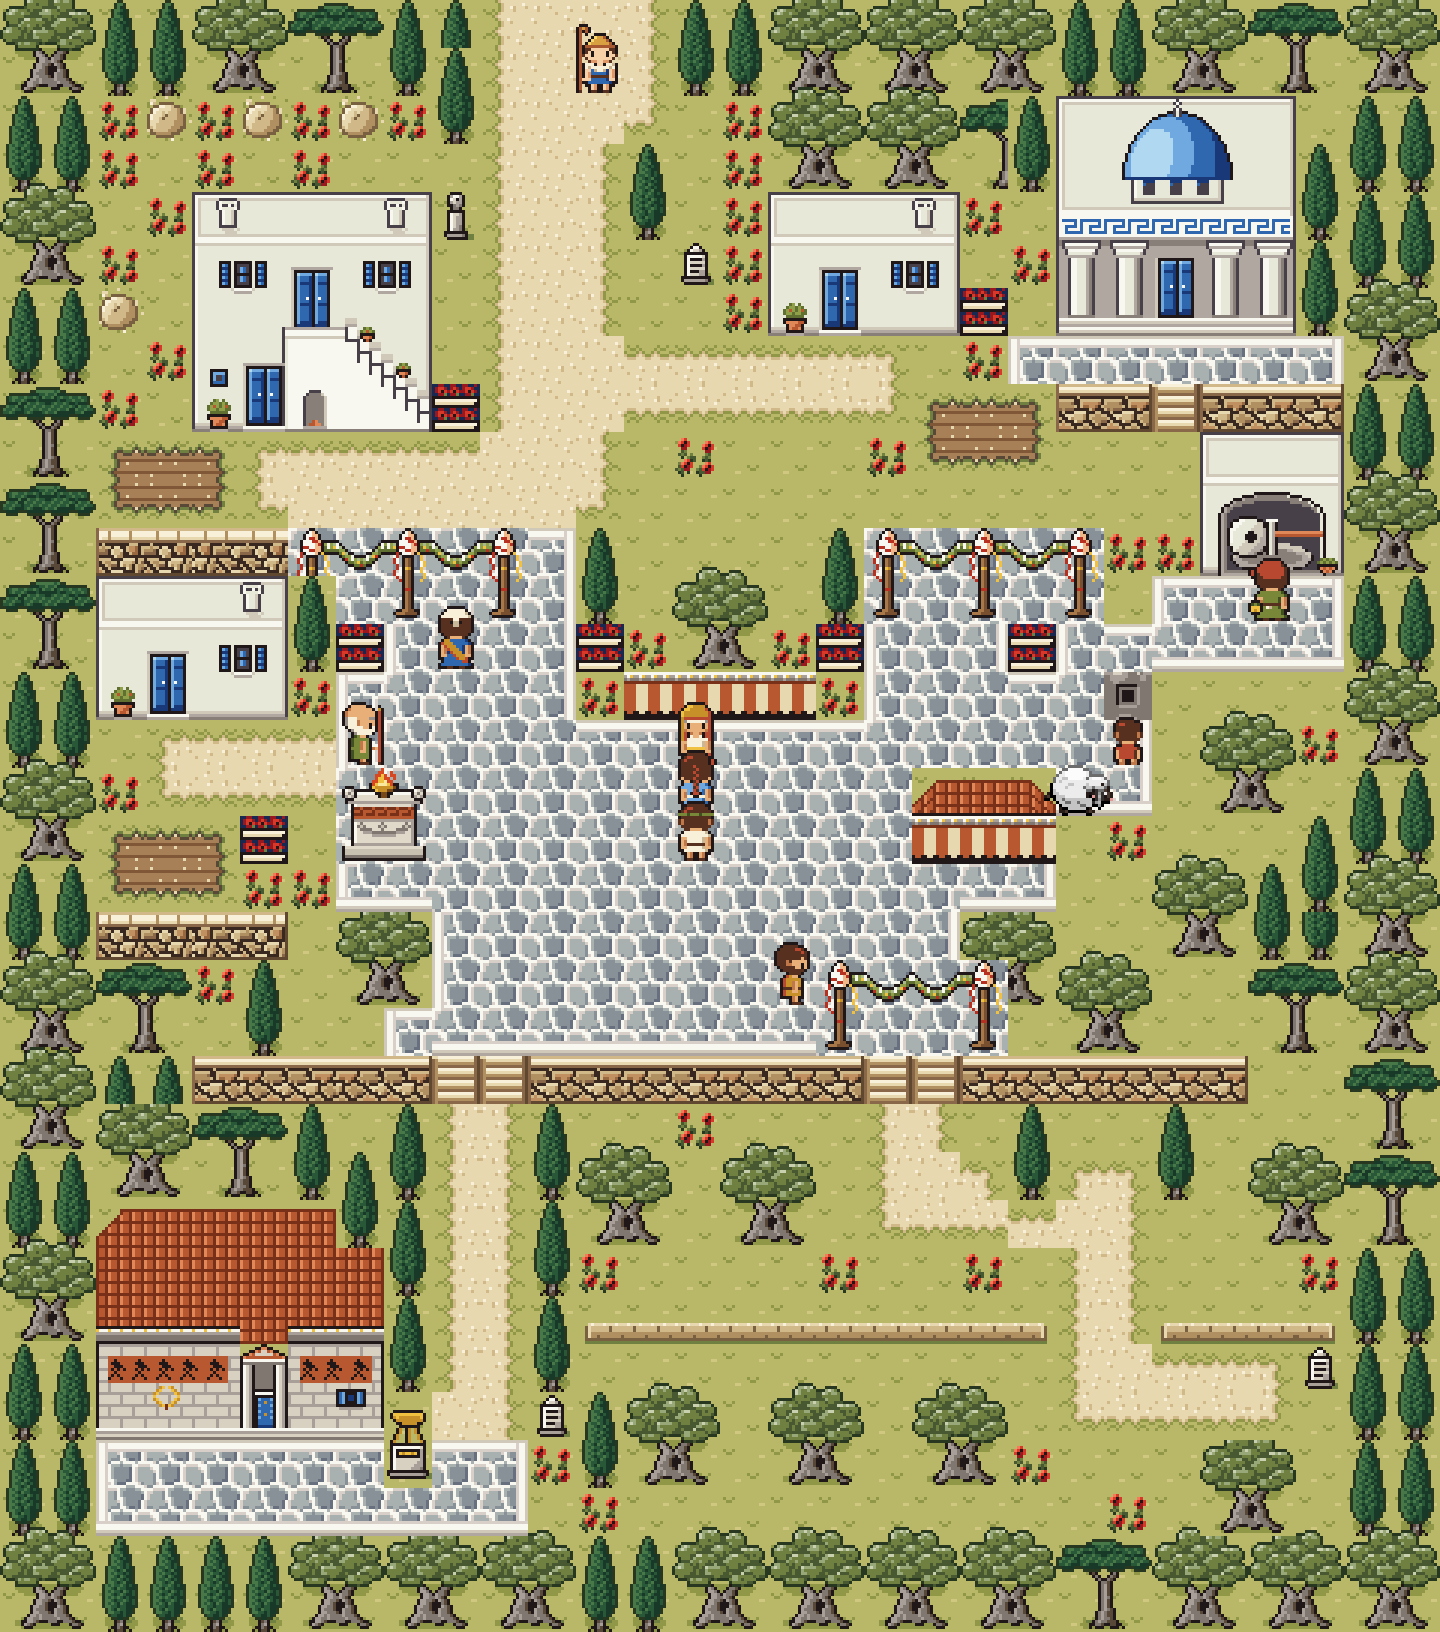
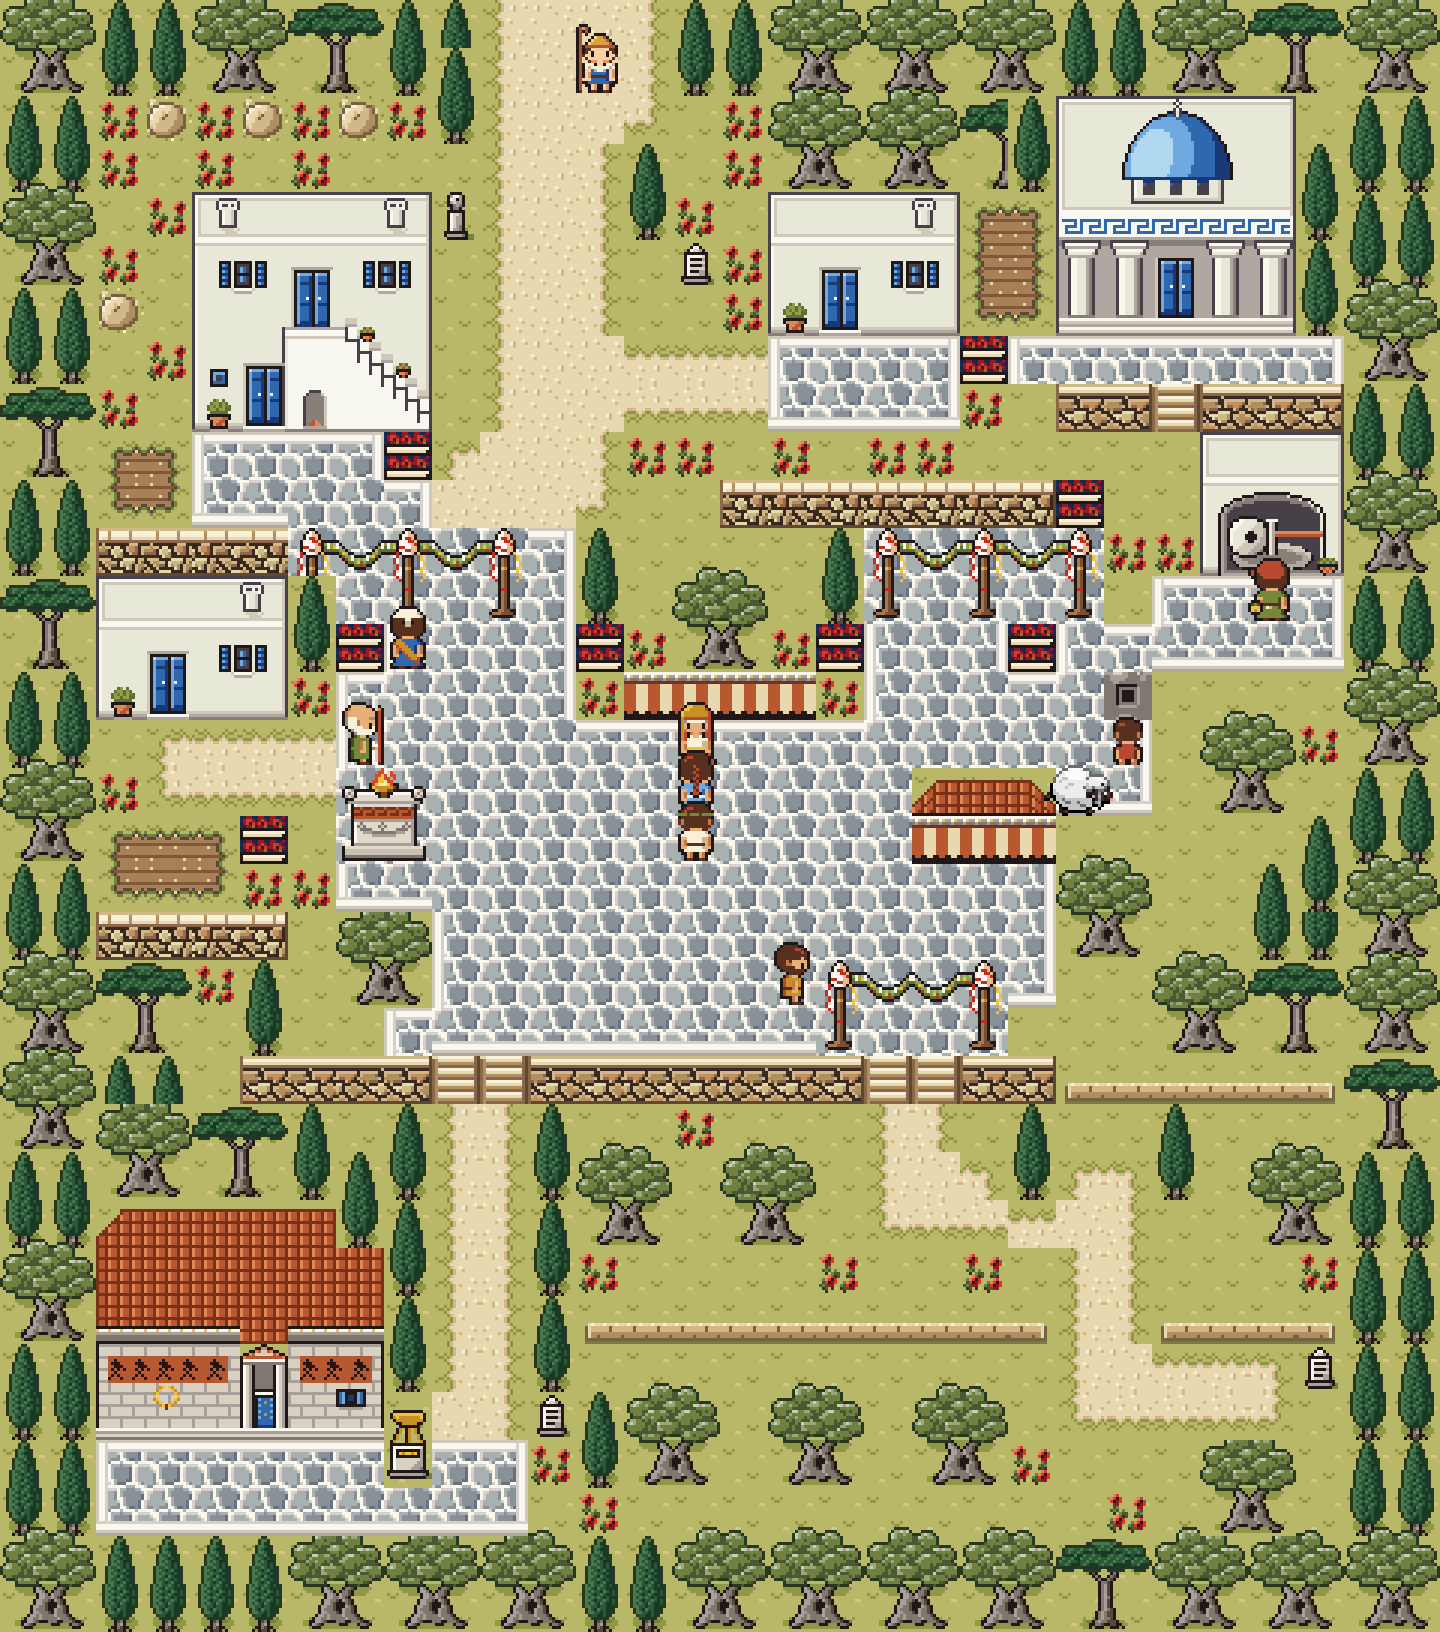
feat(map): give Elaia's houses flagged dooryards and soften its edges
Third pass. Melitta's and Kydippe's houses get whitewashed, flagged
dooryards, the way Cycladic houses meet the road. Kydippe's herb garden
sits against her house, a corner olive no longer runs into the finish
arch, the square's retaining wall gives way to a rough dry-stone lip
under the orchard, and stacked stone pines and the column of anemones by
the gate are gone. The playthrough now also visits Kydippe and checks
the Akademia's note, and the smoke test checks the bedroom cell by cell.

diff --git a/tools/ichor/maps/elaia.py b/tools/ichor/maps/elaia.py
@@ -292,8 +292,9 @@ def edge_forest(g):
         else:
             kind = "pine" if n < 16 else "cypress" if n < 40 else "olive"
         kinds[(bx, by)] = kind
-    for (bx, by), kind in list(kinds.items()):    # an olive's crown can't tip into a pine
-        if kind == "pine" and kinds.get((bx, by + 1)) == "olive":
+    for (bx, by), kind in sorted(kinds.items(), key=lambda kv: (kv[0][1], kv[0][0])):
+        # an olive's crown can't tip into a pine, and two pines stacked look planted
+        if kind == "pine" and (kinds.get((bx, by + 1)) == "olive" or kinds.get((bx, by - 1)) == "pine"):
             kinds[(bx, by)] = "cypress"
     for (bx, by) in sorted(blocks, key=lambda b: (b[1], b[0])):
         x, y = 2 * bx, 2 * by
@@ -328,7 +329,7 @@ def north(g):
     g.set(9, 4, HERM, SOLID, "herm")          # road-pillar of Hermes at the gate
     g.cypress(9, 1)
     g.cypress(13, 3)
-    flowers(g, [(15, 3), (15, 4), (15, 2)])
+    flowers(g, [(15, 2), (14, 4), (15, 5)])
 
 
 def upper_village(g):
@@ -338,18 +339,23 @@ def upper_village(g):
         g.set(x, y, SKEP, SOLID, "skep")
     g.set(2, 6, SKEP, SOLID, "skep")                         # and one more round the side
     flowers(g, [(2, 2), (4, 2), (6, 2), (8, 2), (2, 3), (4, 3), (6, 3), (3, 4), (2, 5), (3, 7), (2, 8)])
-    g.rect(5, 9, 9, 10, "path")                               # from the door to the road
-    garden(g, 2, 9, 3, 2)                                     # Melitta's kitchen garden
+    # a whitewashed, flagged dooryard, as Cycladic houses have; the road is earth
+    g.rect(4, 9, 8, 10, "pave")
+    g.rect(9, 9, 9, 10, "path")
+    garden(g, 2, 9, 2, 2)                                     # Melitta's kitchen garden
     low_wall_ew(g, 2, 7, 11)                                  # the yard's wall above the square
     g.set(8, 11, TROUGH, SOLID, "trough")
-    g.set(9, 8, TROUGH, SOLID, "trough")
+    g.set(8, 9, TROUGH, SOLID, "trough")
     # --- Kydippe's house and herb garden ---
     g.struct("house_small", 16, 4, door_solid=False)          # door (17,6)
-    g.rect(13, 7, 18, 8, "path")                              # from her door to the road
-    garden(g, 19, 8, 3, 2)                                    # her herb garden
-    g.set(20, 6, TROUGH, SOLID, "trough")
+    g.rect(16, 7, 19, 8, "pave")                              # her dooryard
+    g.rect(13, 7, 15, 8, "path")                              # out to the road
+    garden(g, 20, 4, 2, 3)                                    # her herb garden, against the house
+    g.set(20, 7, TROUGH, SOLID, "trough")
     g.set(14, 5, SIGN, SOLID, "sign")                         # ELAIA VILLAGE
-    flowers(g, [(20, 4), (21, 5), (20, 7), (15, 5), (15, 6)])
+    flowers(g, [(15, 6), (21, 7), (20, 8), (13, 9), (16, 9), (19, 9)])
+    low_wall_ew(g, 15, 21, 10)                                # her yard's wall above the square
+    g.set(22, 10, TROUGH, SOLID, "trough")
     # --- the shrine on its terrace ---
     g.struct("shrine_dome", 22, 2)                            # door (24,6), shut today
     g.cypress(27, 3)
@@ -383,8 +389,8 @@ def square(g):
     g.struct("altar_square", 7, 16)                           # the festival altar
     g.block(STALL3, 19, 16, kind="stall")                     # a honey-cake stall
     g.set(23, 14, WELLHEAD, SOLID, "well")
-    g.olive(7, 19)                                            # shade trees in the square's corners
-    g.olive(20, 19)
+    g.olive(7, 19)                                            # shade trees at the square's corners
+    g.olive(22, 18)
     g.set(7, 13, TROUGH, SOLID, "trough")
     g.set(21, 13, TROUGH, SOLID, "trough")
 
@@ -407,15 +413,15 @@ def east(g):
     g.struct("olive_press", 25, 9)                            # front row y=11
     g.rect(24, 12, 27, 13, "pave")                            # the threshing floor
     g.olive(25, 15)
-    g.olive(24, 18)
+    g.olive(24, 20)
     g.cypress(27, 17)
-    g.olive(22, 20)
     flowers(g, [(24, 11), (26, 14), (27, 15), (23, 17), (26, 20)])
 
 
 def lower_terrace(g):
     # the square's retaining wall: steps to the Akademia (west) and the groves (east)
-    terrace_wall(g, 4, 25, 22, steps=(9, 10, 18, 19))
+    terrace_wall(g, 5, 21, 22, steps=(9, 10, 18, 19))
+    ledge_row(g, 22, 27, 22)                                  # the orchard drops away over a rougher lip
     finish_arch(g, 17, 20)
     # --- the Akademia in its grove ---
     g.rect(9, 23, 10, 29, "path")                             # the allee
@@ -564,7 +570,7 @@ OBJECTS = [
     ("KORINNA", GFX + "YOUTH_F", 14, 16, "UP", "Korinna", "0"),
     ("PHILON", GFX + "YOUTH_M", 14, 17, "UP", "Philon", "0"),
     ("GYLIPPOS", GFX + "ELDER_M", 7, 15, "RIGHT", "Gylippos", "0"),
-    ("WOMAN", GFX + "WOMAN", 9, 13, "UP", "FestivalWoman", "0"),
+    ("WOMAN", GFX + "WOMAN", 8, 13, "UP", "FestivalWoman", "0"),
     ("MAN", GFX + "MAN", 16, 20, "RIGHT", "FestivalMan", "0"),
     ("FARMER", GFX + "HARVESTER", 26, 12, "UP", "OliveFarmer", "0"),
     ("KID", GFX + "KID_M", 23, 15, "UP", "Kid", "0"),
@@ -846,6 +852,8 @@ def check(g, m):
             nx, ny = x + dx, y + dy
             if not (0 <= nx < W and 0 <= ny < H) or (nx, ny) in seen or solid[ny, nx]:
                 continue
+            if g.kind[ny, nx] == "ledge" and dy != 1:      # a ledge is one-way: jump south only
+                continue
             seen.add((nx, ny))
             q.append((nx, ny))
     problems = []
@@ -903,7 +911,7 @@ def reachable(g, start, goal, blocked):
         for dx, dy in ((1, 0), (-1, 0), (0, 1), (0, -1)):
             nx, ny = x + dx, y + dy
             if (0 <= nx < W and 0 <= ny < H and (nx, ny) not in seen and not g.solid[ny, nx]
-                    and (nx, ny) not in blocked):
+                    and (nx, ny) not in blocked and (g.kind[ny, nx] != "ledge" or dy == 1)):
                 seen.add((nx, ny))
                 q.append((nx, ny))
     return False

diff --git a/tools/ichor/tests/elaia_opening_consts.c b/tools/ichor/tests/elaia_opening_consts.c
@@ -32,6 +32,7 @@ K(FLAG_KLEON_TOOK_STARTER, FLAG_ICHOR_KLEON_TOOK_STARTER)
 K(FLAG_KLEON_BATTLE_1_DONE, FLAG_ICHOR_KLEON_BATTLE_1_DONE)
 K(FLAG_WON_KLEON_1, FLAG_ICHOR_WON_KLEON_1)
 K(FLAG_GOT_POKEBALLS, FLAG_ICHOR_GOT_POKEBALLS)
+K(FLAG_GOT_KYDIPPE_ORAN, FLAG_ICHOR_GOT_KYDIPPE_ORAN)
 K(FLAG_HIDE_KRATER_SNIVY, FLAG_ICHOR_HIDE_KRATER_SNIVY)
 K(FLAG_HIDE_KRATER_CYNDAQUIL, FLAG_ICHOR_HIDE_KRATER_CYNDAQUIL)
 K(FLAG_HIDE_KRATER_PIPLUP, FLAG_ICHOR_HIDE_KRATER_PIPLUP)
